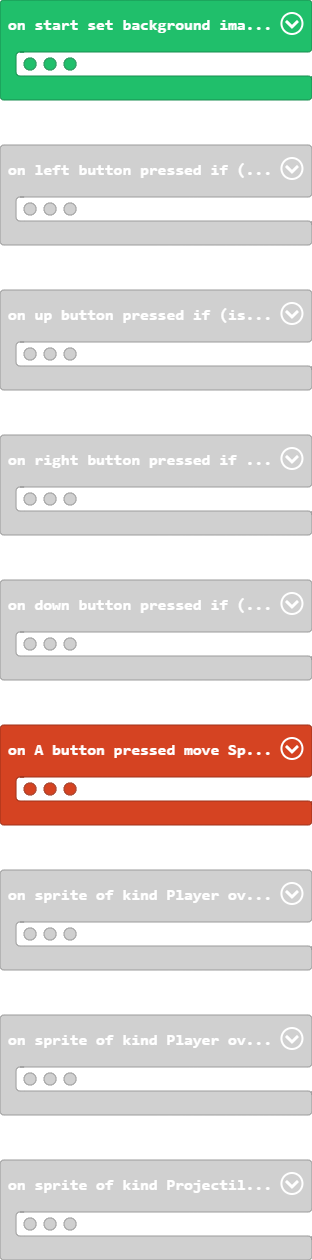
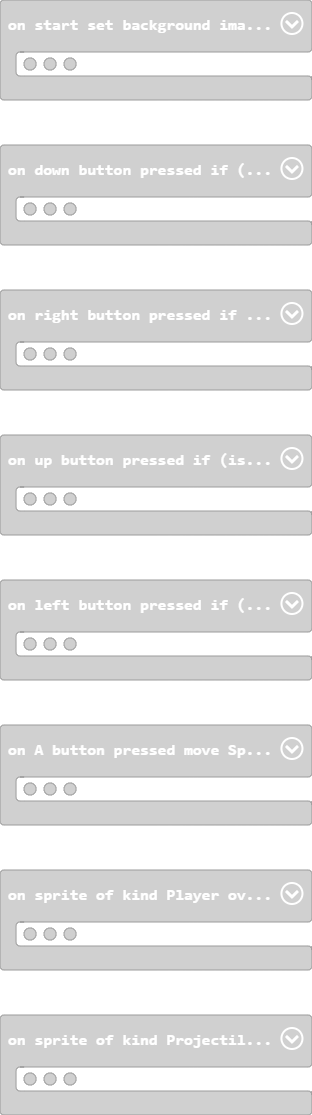
Update main.blocks, main.ts, images.g.jres, images.g.ts

diff --git a/main.ts b/main.ts
@@ -1,6 +1,7 @@
 namespace SpriteKind {
     export const Film = SpriteKind.create()
     export const UI = SpriteKind.create()
+    export const Bananna = SpriteKind.create()
 }
 // interaction between patrolling enemies and players 
 // 
@@ -19,17 +20,18 @@ controller.A.onEvent(ControllerButtonEvent.Released, function () {
 })
 // Interaction that allows player to pick up film
 sprites.onOverlap(SpriteKind.Player, SpriteKind.Film, function (sprite, otherSprite) {
-    info.changeScoreBy(1)
+    Film_Count += 1
     sprites.destroy(Spr_Film)
+    Spr_Player.sayText("I've got " + Film_Count + " Film.", 1000, true)
     music.setVolume(111)
     music.play(music.createSong(assets.song`Refill Film`), music.PlaybackMode.UntilDone)
 })
 // Left camera shot
 controller.left.onEvent(ControllerButtonEvent.Pressed, function () {
     if (controller.A.isPressed()) {
-        if (info.score() > 0) {
+        if (Film_Count > 0) {
             projectile = sprites.createProjectileFromSprite(assets.image`Flash Left`, Spr_Player, -200, 0)
-            info.changeScoreBy(-1)
+            Film_Count += -1
             pause(100)
             sprites.destroy(projectile)
             music.setVolume(255)
@@ -39,18 +41,18 @@ controller.left.onEvent(ControllerButtonEvent.Pressed, function () {
 })
 controller.A.onEvent(ControllerButtonEvent.Pressed, function () {
     controller.moveSprite(Spr_Player, 0, 0)
-    if (info.score() <= 0) {
+    if (Film_Count <= 0) {
         Spr_Player.sayText("Out of Film", 1000, true)
     } else {
-        Spr_Player.sayText("Aim...", 1000, true)
+        Spr_Player.sayText("Film: " + Film_Count, 1000, true)
     }
 })
 // right camera shot
 controller.right.onEvent(ControllerButtonEvent.Pressed, function () {
     if (controller.A.isPressed()) {
-        if (info.score() > 0) {
+        if (Film_Count > 0) {
             projectile = sprites.createProjectileFromSprite(assets.image`Flash Right`, Spr_Player, 200, 0)
-            info.changeScoreBy(-1)
+            Film_Count += -1
             pause(100)
             sprites.destroy(projectile)
             music.setVolume(255)
@@ -61,9 +63,9 @@ controller.right.onEvent(ControllerButtonEvent.Pressed, function () {
 // Upwards Camera Shot
 controller.up.onEvent(ControllerButtonEvent.Pressed, function () {
     if (controller.A.isPressed()) {
-        if (info.score() > 0) {
+        if (Film_Count > 0) {
             projectile = sprites.createProjectileFromSprite(assets.image`Flash Up`, Spr_Player, 0, -200)
-            info.changeScoreBy(-1)
+            Film_Count += -1
             pause(100)
             sprites.destroy(projectile)
             music.setVolume(255)
@@ -74,9 +76,9 @@ controller.up.onEvent(ControllerButtonEvent.Pressed, function () {
 // Downwards Camera Shot
 controller.down.onEvent(ControllerButtonEvent.Pressed, function () {
     if (controller.A.isPressed()) {
-        if (info.score() > 0) {
+        if (Film_Count > 0) {
             projectile = sprites.createProjectileFromSprite(assets.image`Flash Down`, Spr_Player, 0, 200)
-            info.changeScoreBy(-1)
+            Film_Count += -1
             pause(100)
             sprites.destroy(projectile)
             music.setVolume(255)
@@ -91,6 +93,7 @@ sprites.onOverlap(SpriteKind.Projectile, SpriteKind.Enemy, function (sprite, oth
     Spr_Pat.vy = 0
     One_Liner = ["Eat Film!!", "Gotcha!", "Say Cheese!"]
     Spr_Player.sayText(One_Liner._pickRandom(), 1000, true)
+    info.changeScoreBy(10)
     music.setVolume(111)
     music.play(music.createSong(assets.song`MY EYES`), music.PlaybackMode.UntilDone)
     pause(3000)
@@ -101,6 +104,7 @@ let projectile: Sprite = null
 let Spr_Pat: Sprite = null
 let Spr_Film: Sprite = null
 let Spr_Player: Sprite = null
+let Film_Count = 0
 scene.setBackgroundImage(img`
     dddddddddddddddddddddddddddddddddddddddddddddddddddddddddddddddddddddddddddddddddddddddddddddddddddddddddddddddddddddddddddddddddddddddddddddddddddddddddddddddd
     dddddddddddddddddddddddddddddddddddddddddddddddddddddddddddddddddddddddddddddddddddddddddddddddddddddddddddddddddddddddddddddddddddddddddddddddddddddddddddddddd
@@ -224,7 +228,9 @@ scene.setBackgroundImage(img`
     dddddddddddddddddddddddddddddddddddddddddddddddddddddddddddddddddddddddddddddddddddddddddddddddddddddddddddddddddddddddddddddddddddddddddddddddddddddddddddddddd
     `)
 tiles.setCurrentTilemap(tilemap`level2`)
-info.setScore(5)
+Film_Count = 5
+let Item_Name = 0
+info.setScore(0)
 info.setLife(3)
 Spr_Player = sprites.create(assets.image`Papa`, SpriteKind.Player)
 scene.cameraFollowSprite(Spr_Player)

diff --git a/images.g.ts b/images.g.ts
@@ -184,21 +184,21 @@ b b b b b b b b b b b b b b b .
             case "F4~x5tRx}/JF|)A#g8II":
             case "Film":return img`
 . . . . . . . . . . . . . . . . 
-. . . . f f f f f f f . . . . . 
-. . . f b b b b b b b f . . . . 
-. . f b b b b . b b b b f . . . 
-. f b b . b b b b b . b b f . . 
-. f b b b b b b b b b b b f . . 
-. f b b b b b b b b b b b f . . 
-. f b . b b b b b b b . b f . . 
-. f b b b b b b b b b b b f . . 
-. f b b b b b b b b b b b f . . 
-. f b b . b b b b b . b b f . . 
-. . f b b b b . b b b b f . . . 
-. . . f b b b b b b b f . . . . 
-. . . . f f f f f f f . . . . . 
-. . . . . . . . . f . . . . . . 
-. . . . . . . . . . f . . . . . 
+. . . . . . . . . . . . . . . . 
+. . . . . . . . . . . . . . . . 
+. . . . . . f f f f . . . . . . 
+. . . . . c b b b b f . . . . . 
+. . . . c b b b b b b f . . . . 
+. . . c b b f b b f b b f . . . 
+. . . c b b b b b b b b f . . . 
+. . . c b b b b b b b b f . . . 
+. . . c b b f b b f b b f . . . 
+. . . . c b b b b b b f . . . . 
+. . . . . c b b b b f . . . . . 
+. . . . . . c c f f . . . . . . 
+. . . . . . . f . . . . . . . . 
+. . . . . . . . . . . . . . . . 
+. . . . . . . . . . . . . . . . 
 `;
         }
         return null;
